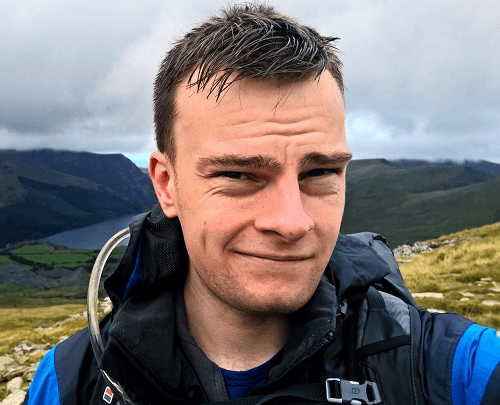
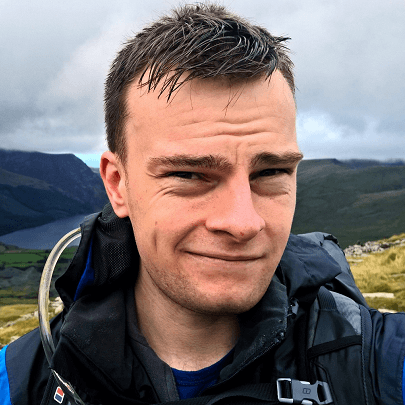
More fixes to styles.

diff --git a/Tranquility/Tranquility.CMS/a/src/styles/06-components/_hero.scss b/Tranquility/Tranquility.CMS/a/src/styles/06-components/_hero.scss
@@ -4,76 +4,81 @@
 .hero {
 	@include media-breakpoint-up(md) {
 		min-height: 370px;
+		padding: 30px;
 	}
 
-	background: none;
+	@include media-breakpoint-down(sm) {
+		&.wilderness {
+			background-image: url('#{$image-url}/nant-gwynant.jpg?w=300&h=500&mode=crop');
+		}
+
+		&.code {
+			background-image: url('#{$image-url}/code-bg.jpg?w=300&h=500&mode=crop');
+		}
+
+		&.mountains {
+			background-image: url('#{$image-url}/mountains-m.jpg');
+		}
+
+		&.glade {
+			background-image: url('#{$image-url}/glade.jpg?w=300&h=500&mode=crop');
+		}
+
+		&.miru {
+			background-image: url('#{$image-url}/miru.jpg');
+		}
+	}
+
+	@include media-breakpoint-up(md) {
+		&.wilderness {
+			background-image: url('#{$image-url}/nant-gwynant.jpg');
+		}
+
+		&.code {
+			background-image: url('#{$image-url}/code-bg.jpg');
+		}
+
+		&.mountains {
+			background-image: url('#{$image-url}/mountains.jpg');
+		}
+
+		&.glade {
+			background-image: url('#{$image-url}/glade.jpg');
+		}
+
+		&.miru {
+			background-image: url('#{$image-url}/miru.jpg');
+		}
+	}
+
+	min-height: 370px;
+	overflow: hidden;
+	background-size: contain;
+	/*background-attachment: scroll;*/
+	background-attachment: fixed;
 	margin: 0;
+	text-align: center;
+	
+	.title
+	{
+		font-size: 4.5rem;
+	}
+
+	.subtitle
+	{
+		font-size: 1.5rem;
+	}
 
 	.hero-avatar {
+		@include img-fluid;
+		border-radius: 100%;
 		margin: 0 auto;
 		display: block;
-		border: $gray-light solid 4px;
+		border: $gray-lighter solid 4px;
 		box-shadow: $black -1px 7px 30px;
 	}
 
 	&.light {
 		color: $white;
-	}
-}
-
-
-.bg-static {
-	background-position: center;
-	background-repeat: repeat;
-	background-size: cover;
-	position: fixed;
-	top: 0;
-	bottom: 30%;
-	left: 0;
-	right: 0;
-	z-index: -1;
-
-	&.wilderness {
-		background-image: url('/Areas/ste_pam/Content/Image/nant-gwynant.jpg');
-	}
-
-	&.code {
-		background-image: url('/Areas/ste_pam/Content/Image/code-bg.jpg');
-	}
-
-	&.mountains {
-		background-image: url('/Areas/ste_pam/Content/Image/mountains.jpg');
-	}
-
-	&.glade {
-		background-image: url('/Areas/ste_pam/Content/Image/glade.jpg');
-	}
-
-	&.miru {
-		background-image: url('/Areas/ste_pam/Content/Image/miru.jpg');
-	}
-
-	@include media-breakpoint-down(sm) {
-		bottom: 30%;
-
-		&.wilderness {
-			background-image: url('/Areas/ste_pam/Content/Image/nant-gwynant.jpg?w=300&h=500&mode=crop');
-		}
-
-		&.code {
-			background-image: url('/Areas/ste_pam/Content/Image/code-bg.jpg?w=300&h=500&mode=crop');
-		}
-
-		&.mountains {
-			background-image: url('/Areas/ste_pam/Content/Image/mountains.jpg?w=300&h=500&mode=crop');
-		}
-
-		&.glade {
-			background-image: url('/Areas//ste_pam/Content/Image/glade.jpg?w=300&h=500&mode=crop');
-		}
-
-		&.miru {
-			background-image: url('/Areas/ste_pam/Content/Image/miru.jpg');
-		}
 	}
 }

diff --git a/Tranquility/Tranquility.CMS/gulpfile.js b/Tranquility/Tranquility.CMS/gulpfile.js
@@ -7,7 +7,6 @@
 const gulp = require('gulp'),
     config = require('./package.json'),
     changed = require('gulp-changed'),
-    //browserSync = require('browser-sync').create(),
     clean = require('gulp-clean'),
     sass = require('gulp-sass'),
     concat = require('gulp-concat'),
@@ -20,7 +19,7 @@ const gulp = require('gulp'),
     imagemin = require('gulp-imagemin'),
     babel = require('gulp-babel'),
     sassLintConfig = require('./sasslint-config.json'),
-	externalJS = require('./a/src/scripts/external-references.json');
+	externalJs = require('./a/src/scripts/external-references.json');
 
 // Custom project tasks.
 
@@ -90,11 +89,11 @@ gulp.task('js', function () {
         .pipe(gulp.dest(config.paths.dist.scripts));
 });
 
-//// Copy external frameworks over.
-//gulp.task('external-js', function () {
-//	return gulp.src(externalJs)
-//      .pipe(gulp.dest(resolvePath(config.paths.src.scripts)));
-//});
+// Copy external frameworks over.
+gulp.task('external-js', function () {
+	return gulp.src(externalJs.references)
+      .pipe(gulp.dest(config.paths.dist.scripts));
+});
 
 // Images copy
 gulp.task('img', function () {
@@ -119,7 +118,7 @@ gulp.task('build', gulp.series(
   gulp.parallel(
     'css',
     'js',
-    //'external-js',
+    'external-js',
     'img'
   ),
   function (done) {

diff --git a/Tranquility/Tranquility.CMS/a/src/styles/01-settings/settings.scss b/Tranquility/Tranquility.CMS/a/src/styles/01-settings/settings.scss
@@ -1,8 +1,4 @@
-/// <reference path='../01-settings/settings' />
-/// <reference path='../02-tools/tools' />
-@import '../../../../node_modules/bootstrap/scss/variables';
-
-$brand-primary:         #29B8B9;
+$brand-primary:         #29B8B9;
 $brand-primary2:        #F90;
 $brand-success:         #5CB85C;
 $brand-info:            #5BC0DE;
@@ -10,7 +6,11 @@ $brand-warning:         #F0AD4E;
 $brand-danger:          #F44;
 $dark-bg:				#0C0C0E;
 $body-bg:               #EEE;
-$text-color:            $gray-dark;
+$text-color:            #444;
 $link-color:            $brand-primary;
 $link-hover-color:      lighten($link-color, 15%);
 $brand-subtle:			#95A5A6;
+
+$image-url: '/a/dist/img';
+
+@import '../../../../node_modules/bootstrap/scss/variables';

diff --git a/Tranquility/Tranquility.CMS/a/src/styles/06-components/_section.scss b/Tranquility/Tranquility.CMS/a/src/styles/06-components/_section.scss
@@ -11,8 +11,8 @@
         padding-bottom: $grid-gutter-width-base;
     }
 
-    > section:nth-child(odd)  {
-        background-color: $gray;
+    > section:nth-child(even)  {
+        background-color: $gray-dark;
         color: $white;
         padding-bottom: 20px;
 
@@ -29,7 +29,7 @@
         }
     }
 
-    > section:nth-child(even) {
+    > section:nth-child(odd) {
         background-color: $gray-lighter;
 
         .split-sections {
@@ -53,6 +53,8 @@
         color: $brand-subtle;
         font-size: 100px;
         width: 170px;
+		height: 170px;
+		fill: $brand-subtle;
         padding: 25px;
 
         @include media-breakpoint-down(md) {

diff --git a/Tranquility/Tranquility.CMS/a/src/styles/07-trumps/trumps.scss b/Tranquility/Tranquility.CMS/a/src/styles/07-trumps/trumps.scss
@@ -1,4 +1,6 @@
-/*#cv {
+@import '../../../../node_modules/bootstrap/scss/utilities/text';
+
+/*#cv {
     .job-title {
         //Job titles sometimes slip under epoch...
         padding-left: 25px;

diff --git a/Tranquility/Tranquility.CMS/a/src/styles/06-components/components.scss b/Tranquility/Tranquility.CMS/a/src/styles/06-components/components.scss
@@ -2,6 +2,7 @@
 /// <reference path='../02-tools/tools' />
 
 @import 'content';
+@import 'icon';
 @import 'footer';
 @import 'hero';
 @import 'mockup';

diff --git a/Tranquility/Tranquility.CMS/a/src/styles/06-components/_icon.scss b/Tranquility/Tranquility.CMS/a/src/styles/06-components/_icon.scss
@@ -1,0 +1,1 @@
+
